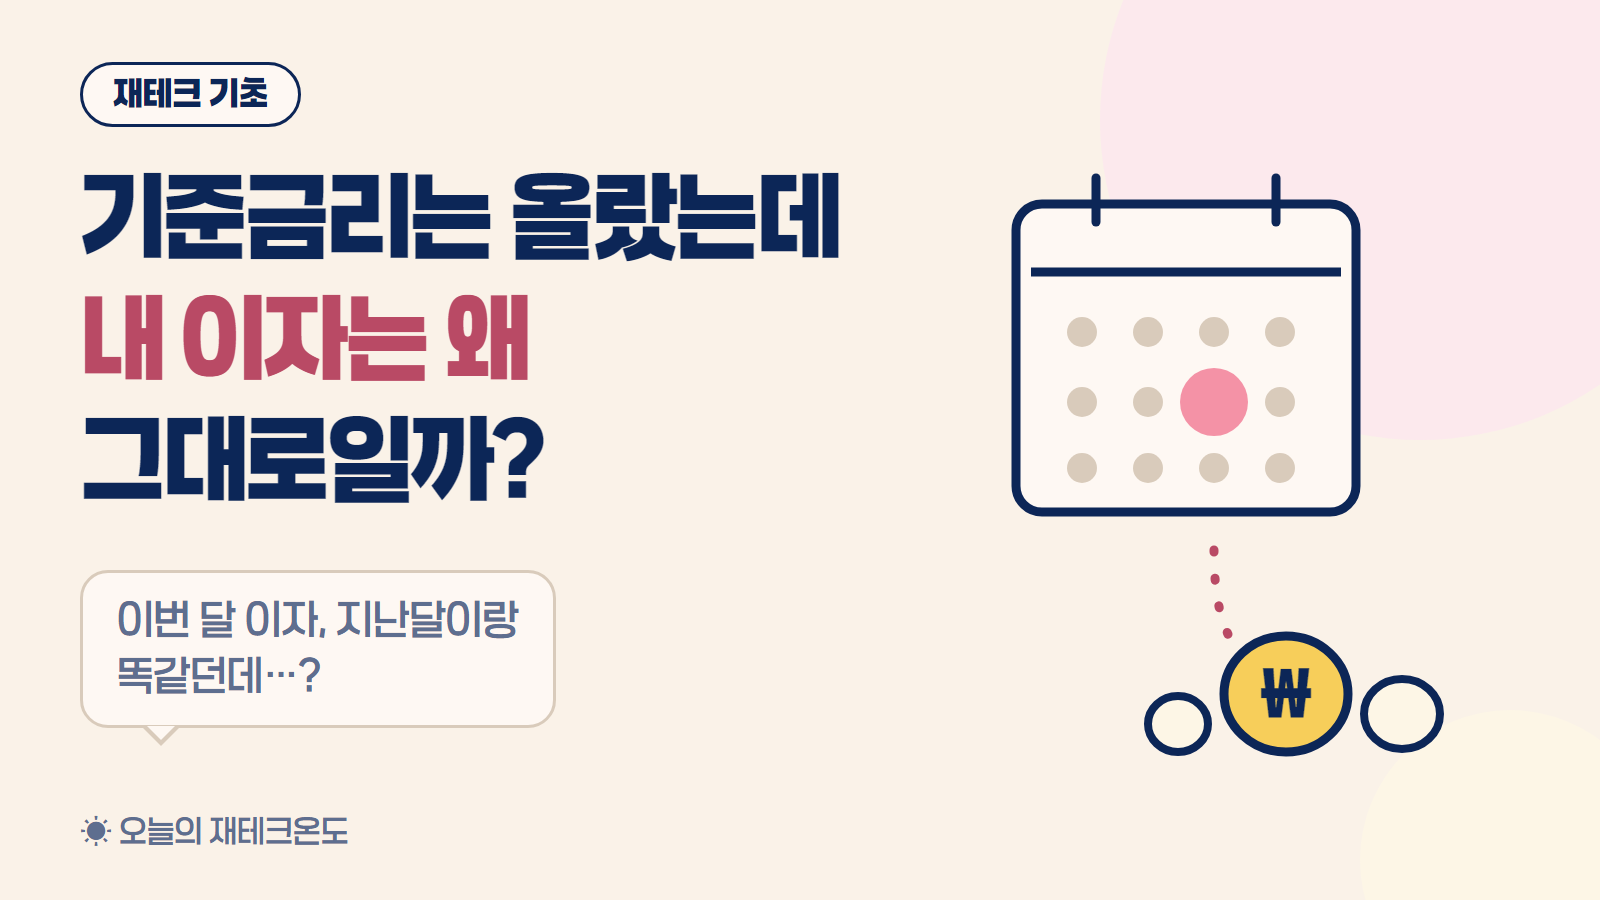
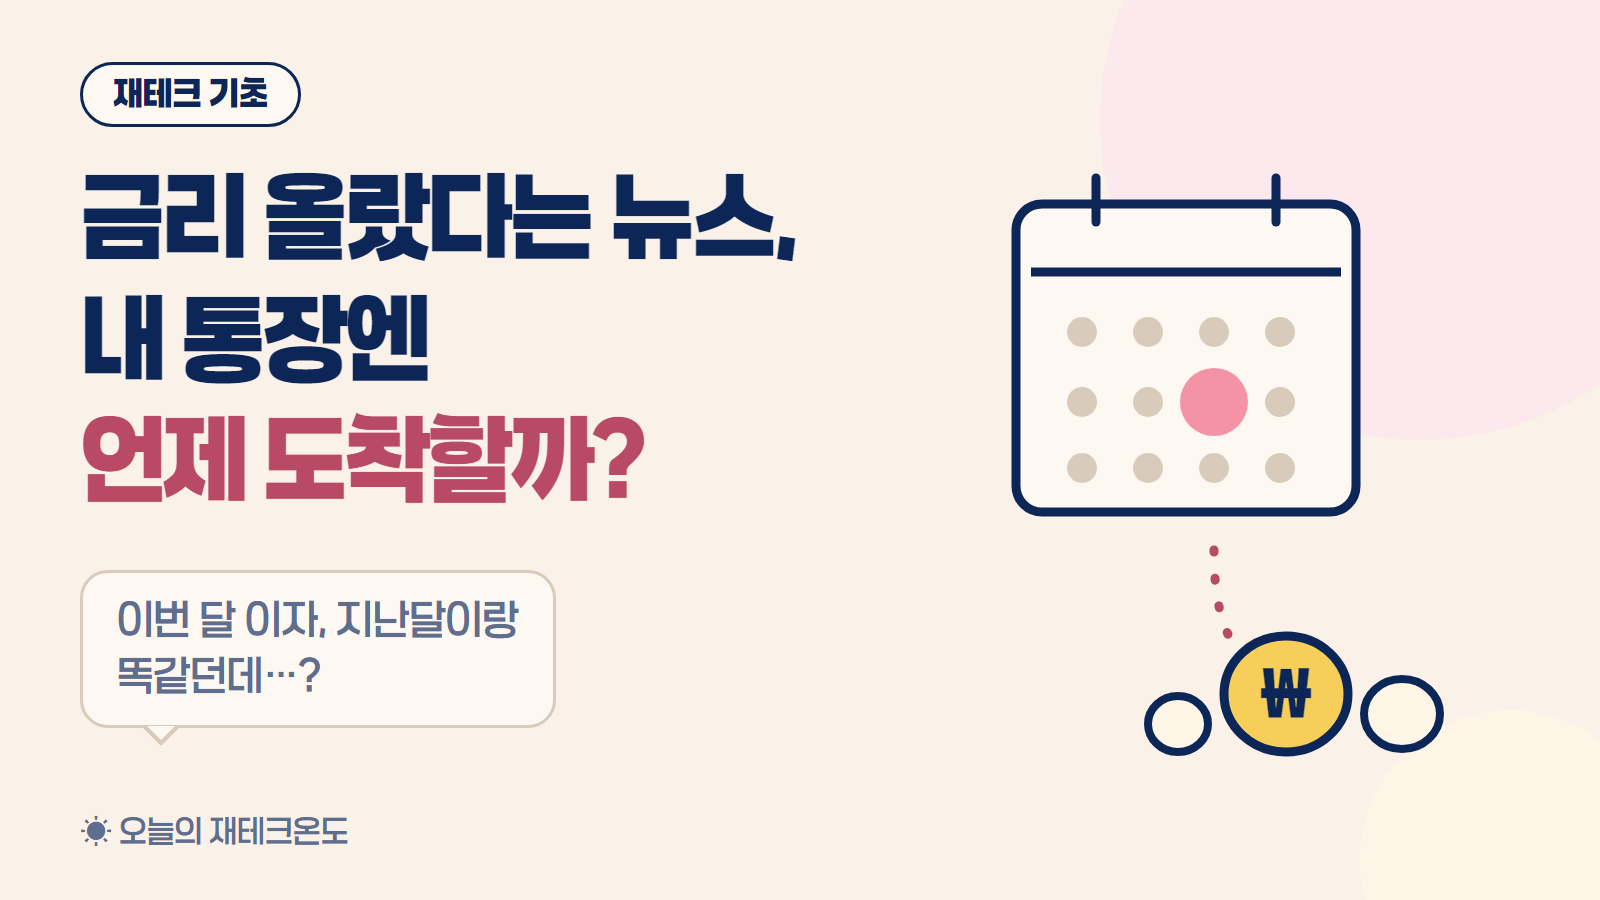
moneyweather: 썸네일 제목을 같은 뜻 다른 문장으로
제목을 넣기로 하되 글 제목을 그대로 베끼지 않는다.
공유될 때는 이미지만 돌아서 글자가 필요하고,
목록에서는 제목이 옆에 또 나와서 같은 문장이면 정보가 없다.

  글 제목 : 기준금리 3% 됐는데, 내 대출이자는 「왜」 아직 「그대로」일까?
  썸네일  : 금리 올랐다는 뉴스,  내 통장엔     「언제」  「도착」할까?

묻는 말(왜→언제), 주어(대출이자→통장), 동사(그대로다→도착한다)를 바꿨다.
「도착」은 본문이 쓰는 비유(기준금리가 내 이자까지 오는 길)에서 가져왔다.

답을 바꾼 게 아니라 질문을 바꾼 것이라, 여전히 답은 주지 않는다.

CLAUDE.md §41.2 에 틀 바꾸는 방법을 표로 남겼다.

Changed region(s): [[0.0312, 0.1867, 0.5312, 0.56]]

diff --git a/MONEYWEATHER/04_이미지/2026-09-05_기준금리3.00_대출금리_반영시점/_소스/01_썸네일.html b/MONEYWEATHER/04_이미지/2026-09-05_기준금리3.00_대출금리_반영시점/_소스/01_썸네일.html
@@ -10,6 +10,11 @@
 
     1. 카테고리 배지        — 왼쪽 위 알약
     2. 질문형 큰 제목        — 핵심 줄만 색으로
+       글 제목을 그대로 옮기지 않는다. 「같은 뜻, 다른 문장」으로 쓴다.
+         글 제목: ... 내 대출이자는 「왜」 아직 「그대로」일까?
+         썸네일 : ... 내 통장엔    「언제」  「도착」할까?
+       공유될 때는 이미지만으로 무슨 글인지 알 수 있고,
+       목록에서는 제목 글자와 나란히 놓여도 같은 말이 두 번 나오지 않는다.
     3. 손글씨 말풍선         — 궁금증을 만드는 장치. 독자가 속으로 하는 말
     4. 일러스트가 절반       — 그림이 주인공, 글자가 거들기
 
@@ -77,7 +82,7 @@
 
 <div class="card">
   <div class="badge">재테크 기초</div>
-  <h1>기준금리는 올랐는데<br><span class="hi">내 이자는 왜</span><br>그대로일까?</h1>
+  <h1>금리 올랐다는 뉴스,<br>내 통장엔<br><span class="hi">언제 도착할까?</span></h1>
   <div class="bubble">이번 달 이자, 지난달이랑<br>똑같던데…?</div>
 </div>
 

diff --git a/MONEYWEATHER/CLAUDE.md b/MONEYWEATHER/CLAUDE.md
@@ -2154,6 +2154,33 @@ node 05_자동화/생성/md2html.js <draft.md 경로>    # 초안 → 발행용 
 | **일러스트** | 화면의 3분의 1 이상. 글자만 있으면 딱딱하다 |
 | **브랜드 한 줄** | ☀ 오늘의 재테크온도 |
 
+### 제목은 넣되, 같은 뜻 다른 문장으로
+
+**썸네일에 제목을 넣는다.** 카카오톡 공유나 핀터레스트로 나갈 때는 이미지만 돌기 때문에,
+글자가 없으면 무슨 글인지 알 수 없다.
+
+다만 **글 제목을 그대로 옮겨 적지 않는다.** 목록에서는 제목이 옆에 글자로 또 나온다.
+같은 문장이 두 번 보이면 얻는 정보가 없다.
+
+```text
+글 제목 :  기준금리 3% 됐는데, 내 대출이자는 「왜」 아직 「그대로」일까?
+썸네일  :  금리 올랐다는 뉴스,  내 통장엔     「언제」  「도착」할까?
+                                              └── 묻는 틀을 바꾼다
+```
+
+### 틀을 바꾸는 방법
+
+| 바꾸는 것 | 예 |
+| --- | --- |
+| **묻는 말** | 왜 → 언제 / 얼마나 / 어디서 |
+| **주어** | 내 대출이자 → 내 통장 (더 손에 잡히는 말로) |
+| **동사** | 그대로다 → 도착한다 (본문의 비유를 끌어온다) |
+
+같은 것을 묻되 **다른 각도에서** 묻는다.
+글 제목이 「왜 안 오르나」면 썸네일은 「언제 오르나」로 묻는 식이다.
+
+**답을 바꾸는 게 아니라 질문을 바꾸는 것이다.** 여전히 답은 주지 않는다.
+
 ### 말풍선이 핵심이다
 
 썸네일에서 클릭을 만드는 건 제목이 아니라 **말풍선**이다.
